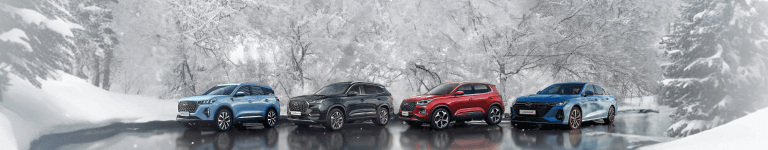
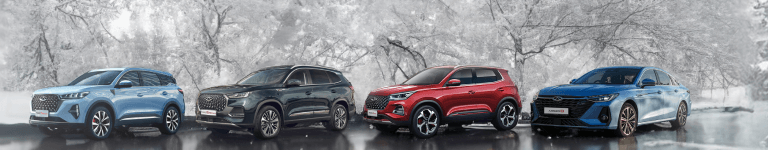
initial commit

diff --git a/index.css b/index.css
@@ -37,7 +37,7 @@ body {
   box-sizing: border-box;
   background-image: url(./main-back.png);
   background-repeat: no-repeat;
-  background-position: center;
+  background-position: left;
   background-size: cover;
   display: flex;
   justify-content: space-between;
@@ -91,9 +91,9 @@ body {
 }
 
 @media screen and (min-width: 510px) and (max-width: 580px) {
-  .main {
+  /* .main {
     background-image: url(./main-back-580.png);
-  }
+  } */
 
   .info {
     background-image: url(./info-back-0.png);
@@ -102,7 +102,7 @@ body {
 
 @media screen and (min-width: 440px) and (max-width: 510px) {
   .main {
-    background-image: url(./main-back-580.png);
+    background-image: url(./main-back-510.png);
   }
 
   .logo {
@@ -127,7 +127,7 @@ body {
 
 @media screen and (min-width: 380px) and (max-width: 440px) {
   .main {
-    background-image: url(./main-back-440.png);
+    background-image: url(./main-back-510.png);
   }
   
   .logo {
@@ -153,7 +153,7 @@ body {
 
 @media screen and (min-width: 320px) and (max-width: 380px) {
   .main {
-    background-image: url(./main-back-440.png);
+    background-image: url(./main-back-510.png);
   }
   
   .logo {
